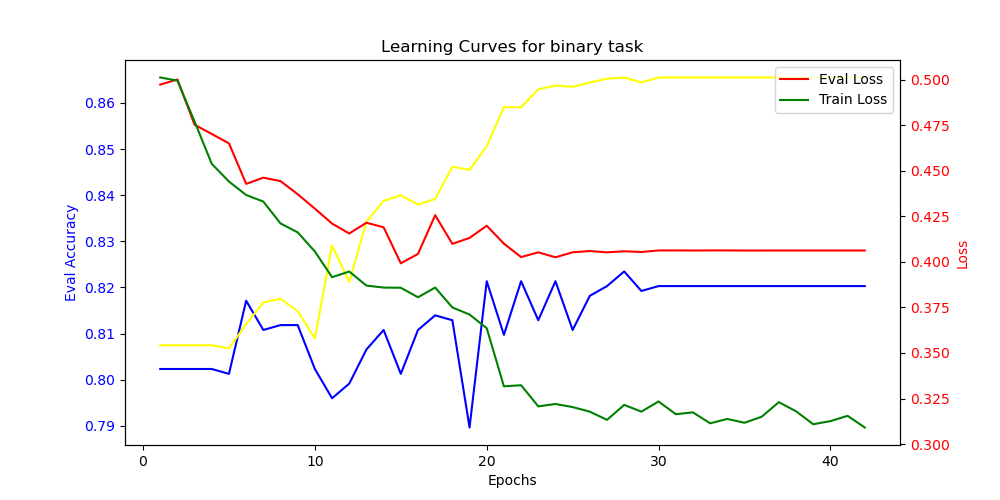
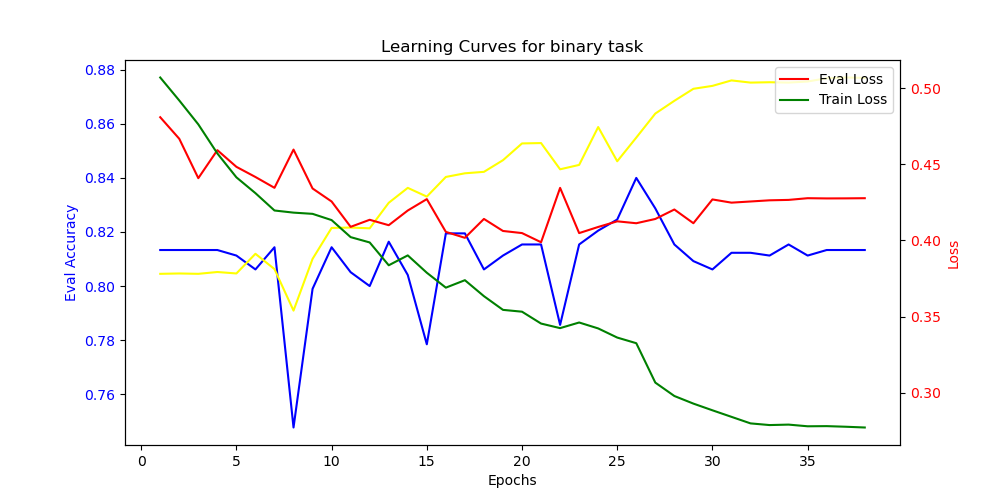
CHANGED results should be finished for now

diff --git a/RESULTS.md b/RESULTS.md
@@ -180,7 +180,7 @@
   ![epoch wise](./pictures/epoch_label_nonleak_our.png)
 
 - Label bias test
-- [ ] Still computing
+![label_prediction_bias](./pictures/our_label_bias_plot.png)  
 
 ### Cluster
 
